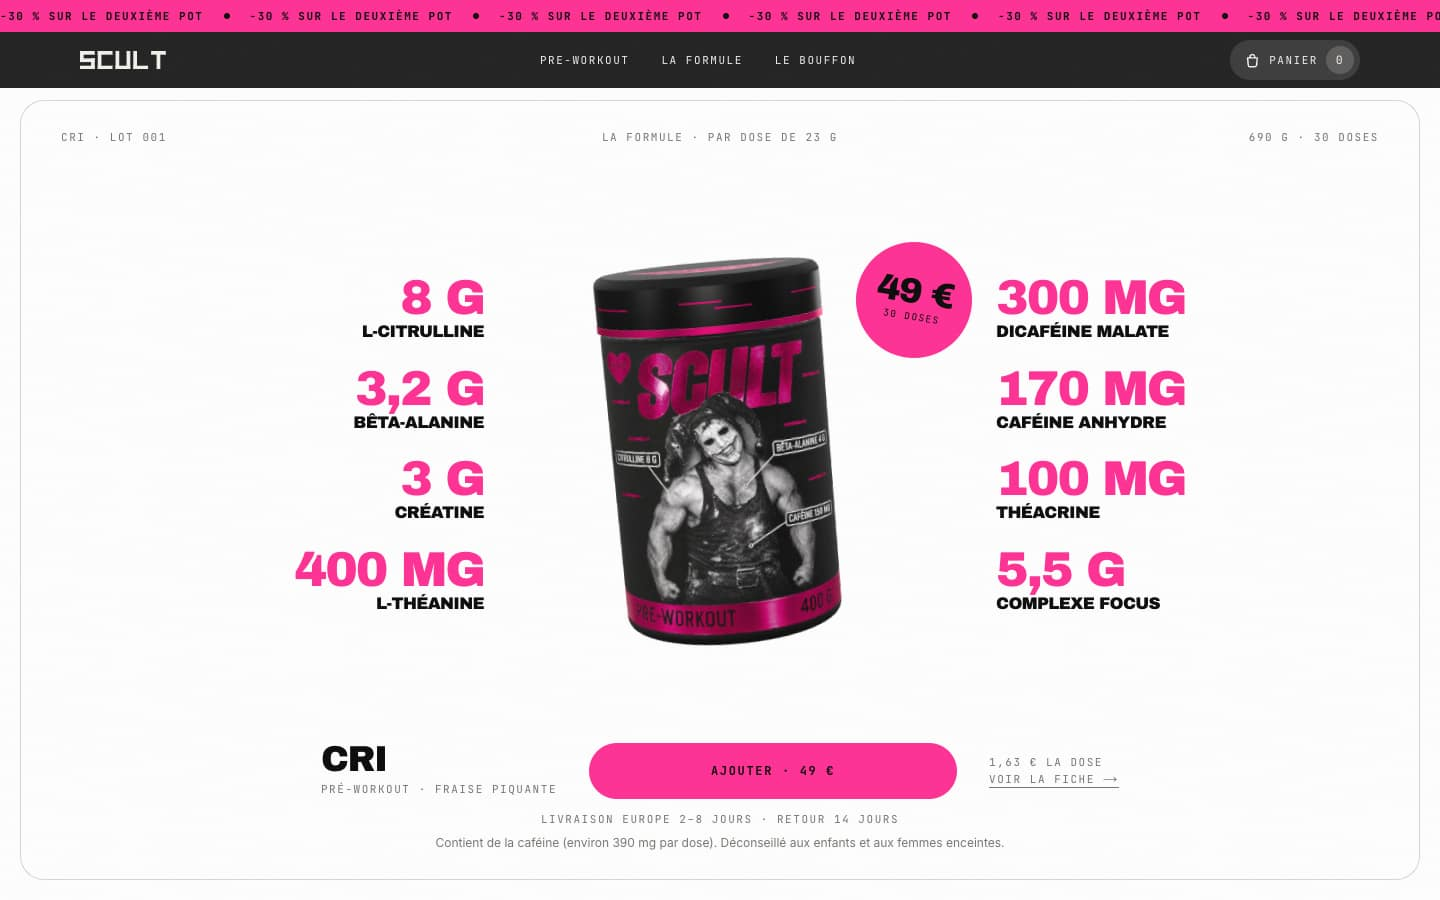
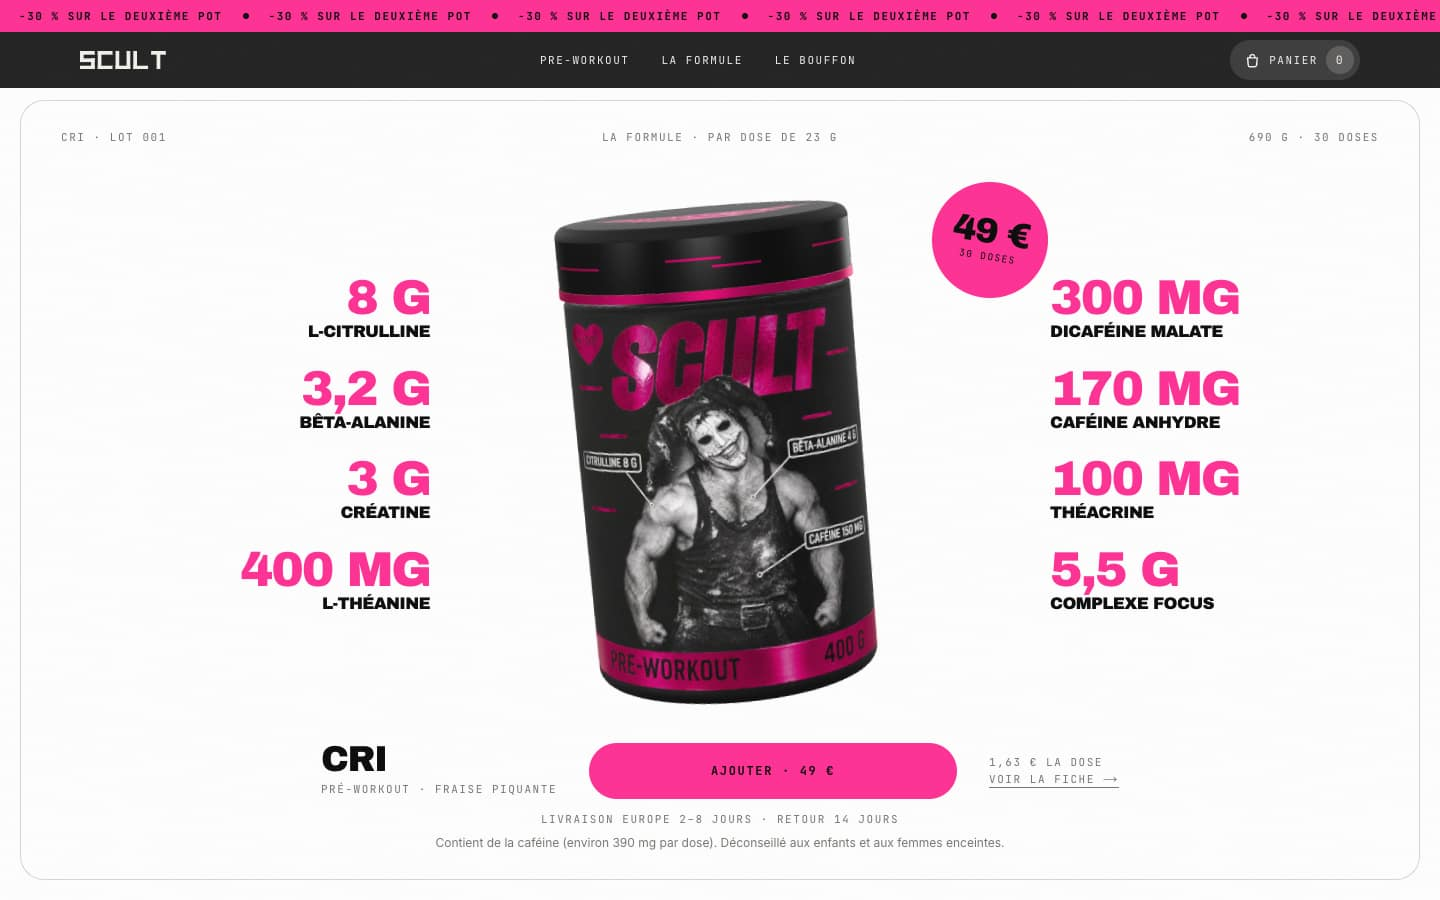
feat(accueil): pot 3D plus grand dans la section « formule »

diff --git a/src/components/site/OfferScroll.tsx b/src/components/site/OfferScroll.tsx
@@ -110,10 +110,10 @@ export function OfferScroll({ product, offer, lines, doses, caffeineWarning }: {
             <div className="grid flex-1 items-center gap-6 md:grid-cols-[1fr_auto_1fr] md:gap-14">
               {column(lines.slice(0, half), 0, "right")}
               {/* Sur téléphone, le choix du goût prend une rangée sous le pot : le pot se règle sur la hauteur qui reste. */}
-              <div className={`relative mx-auto md:w-[min(30vw,40svh)] ${flavours.length > 1 ? "w-[max(7rem,min(56vw,calc((100svh-27.75rem)/1.35)))]" : "w-[min(58vw,32svh)]"}`}>
+              <div className={`relative mx-auto md:w-[min(38vw,52svh)] ${flavours.length > 1 ? "w-[max(7rem,min(56vw,calc((100svh-27.75rem)/1.35)))]" : "w-[min(68vw,38svh)]"}`}>
                 <Pot3D
                   alt="Le pot SCULT pré-workout : noir, le nom SCULT en rose métallisé, le bouffon masqué sur l'étiquette"
-                  sizes="(min-width: 768px) 30vw, 58vw"
+                  sizes="(min-width: 768px) 38vw, 68vw"
                   interactive={false}
                   onReady={onReady}
                   still="/models/pot-scult-poster.webp"
